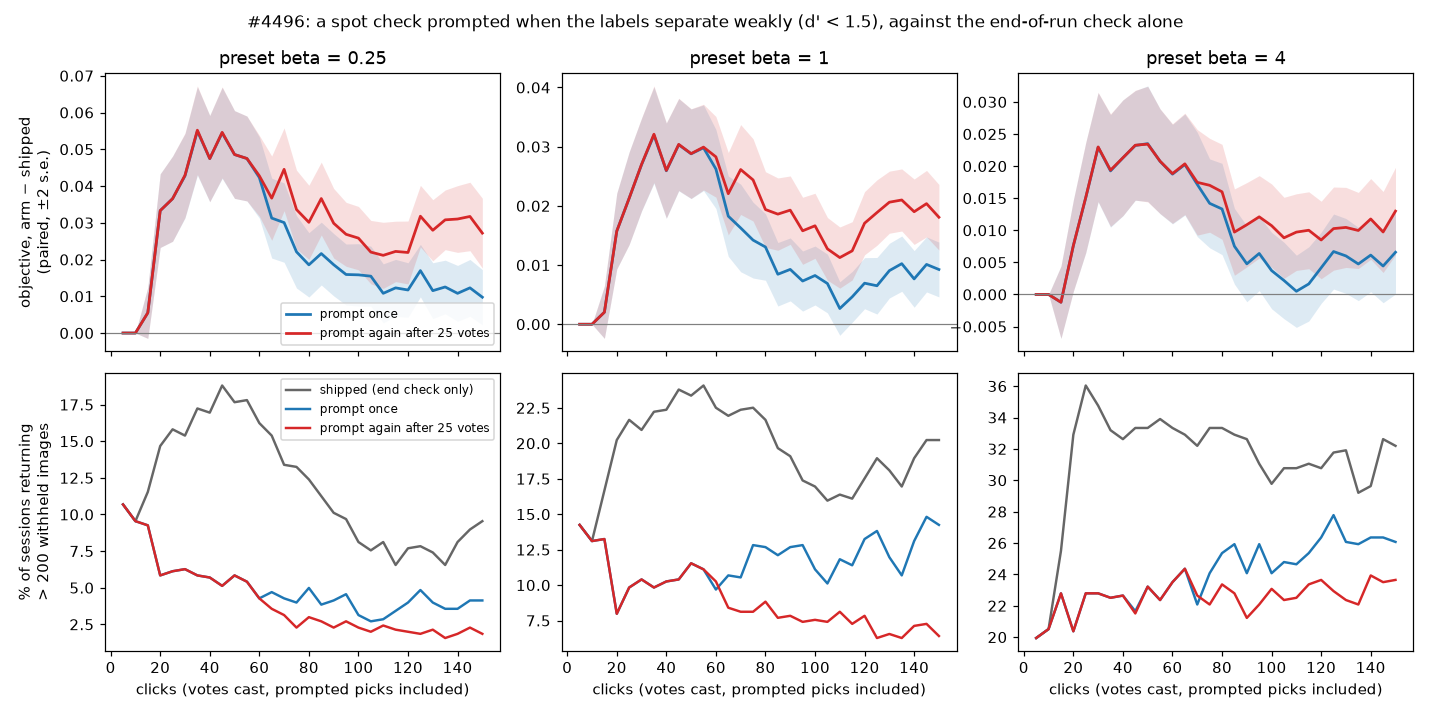
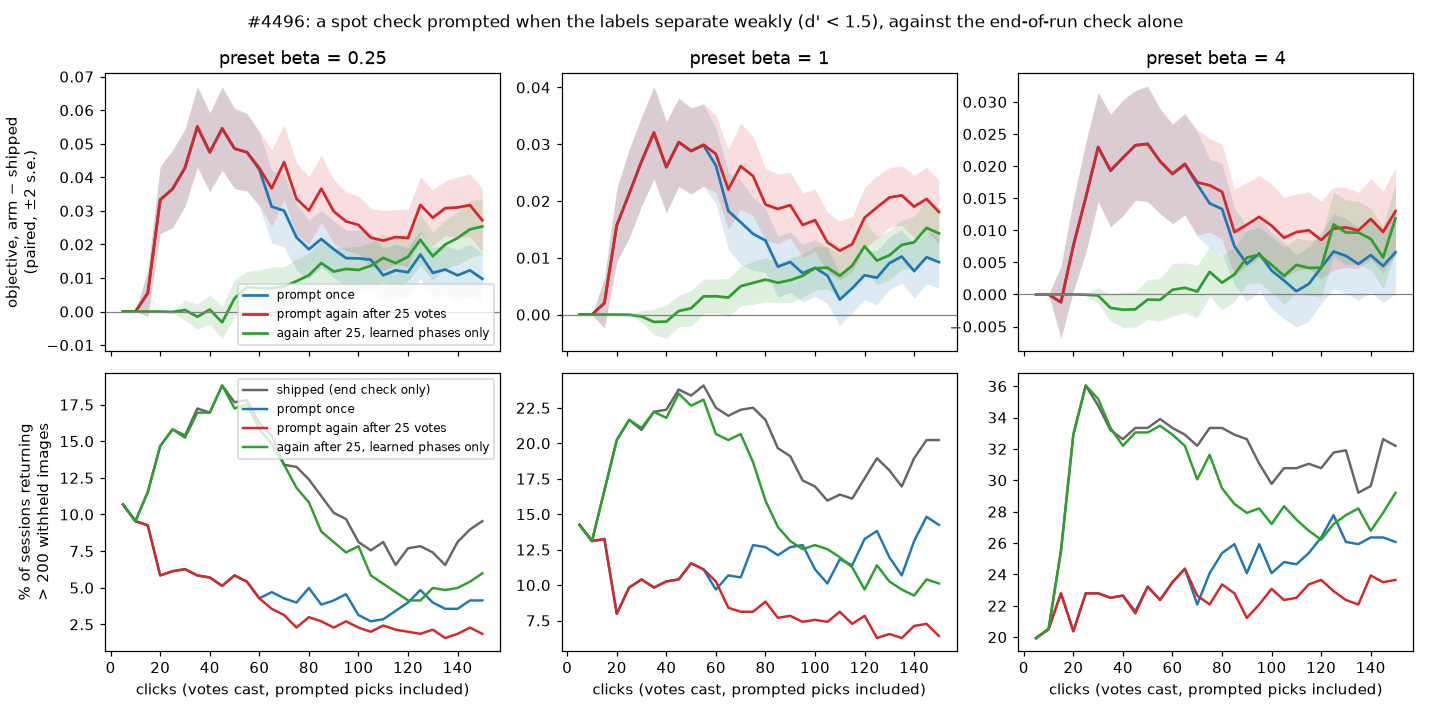
#4496: report - round 2, the check past Autopilot's opening as shipped
Past the opening only (weak_phase="learned", PR #4503), the check keeps
nearly all of round 1's gain at click 150 (+0.025/+0.014/+0.012 against
+0.027/+0.018/+0.013) and gives up everything before about click 50
(+0.02-0.05 in round 1). The follow-up is #4508. Figure re-rendered with
the third arm.

Claude-Session: https://claude.ai/code/session_01RYAFvig7c64CtSQuHpMxrk

diff --git a/docs/experiments/2026-10-05-weak-check-4496/REPORT.md b/docs/experiments/2026-10-05-weak-check-4496/REPORT.md
@@ -1,6 +1,6 @@
 # A spot check prompted when the labels separate weakly (#4496)
 
-**Status (2026-10-05):** priced end to end. Both arms win at every preset. Prompting again 25 votes after each prompted check is the better rule. How to ship it is the owner's call; see the end of this report.
+**Status (2026-10-05): shipped in PR #4503.** Both arms of round 1 win at every preset, and prompting again 25 votes after each prompted check is the better rule. The owner chose to ship it as a prompted check that Autopilot runs and the Train tab calls for. The app trains no detector during Autopilot's text-sort opening, so the shipped check runs only past it. Round 2 priced that arm: it keeps nearly all of the gain at click 150 and gives up the gain before about click 50. #4508 is the follow-up, a background retrain during the opening.
 
 ## The question
 
@@ -51,6 +51,26 @@ The objective is F-beta of the withheld half above Find's line, at the session's
 - **The ranking improves.** Final AP is +0.013 when prompting again and +0.004 to +0.005 when prompting once. AP at click 25 is +0.022. By the end, prompting again finds +1.4 to +1.6 more Goods.
 - **Before the first check pays off,** clicks 12 to 15 lose 0.001 to 0.003.
 
+## Round 2: only past Autopilot's opening, as shipped
+
+In round 1, 92% of the first prompts fell inside Autopilot's opening (`good`, `bad` and `more`, on the text or example sort). There the app trains no detector, so it has neither a separation to read nor a ranking to check. Round 2 re-ran "again after 25" with the prompt allowed only once the flow has left the opening (`weak_phase="learned"`), on the same 4,320 paired sessions. Runs are `2026-10-05-weakl-b025|b1|b4`; the green line in the figure.
+
+| preset | arm | 20 | 30 | 50 | 75 | 100 | 150 | after the check | final AP | Goods by the end |
+|---:|---|---:|---:|---:|---:|---:|---:|---:|---:|---:|
+| 1/4 | anywhere (round 1) | +0.033 | +0.043 | +0.049 | +0.034 | +0.026 | +0.027 | +0.010 | +0.013 | +1.4 |
+| 1/4 | **past the opening (shipped)** | 0.000 | 0.000 | +0.004 | +0.009 | +0.012 | +0.025 | +0.009 | +0.009 | +1.6 |
+| 1 | anywhere (round 1) | +0.016 | +0.027 | +0.029 | +0.024 | +0.017 | +0.018 | +0.010 | +0.012 | +1.6 |
+| 1 | **past the opening (shipped)** | 0.000 | 0.000 | +0.001 | +0.006 | +0.008 | +0.014 | +0.006 | +0.009 | +1.8 |
+| 4 | anywhere (round 1) | +0.008 | +0.023 | +0.023 | +0.017 | +0.011 | +0.013 | +0.005 | +0.013 | +1.6 |
+| 4 | **past the opening (shipped)** | 0.000 | 0.000 | −0.001 | +0.004 | +0.005 | +0.012 | +0.005 | +0.011 | +1.6 |
+
+- **Prompts come later and less often.** 47 to 48% of sessions are prompted, at a median first prompt of click 67, against 63% at click 22 in round 1. The median session first reaches a learned phase at click 45, and 83 sessions in 720 never do.
+- **What it keeps.** By click 150 the shipped check has nearly all of round 1's gain. It gets 70 to 90% of the final-AP gain and all of the extra Goods. It costs no Goods early: Goods by click 25 are unchanged.
+- **What it gives up.** Everything before about click 50, where most users who stop early would have gained +0.02 to +0.05. Recovering that needs a detector during the opening: #4508, a background retrain after each opening vote.
+- **Its click cost.** Prompted sessions spend a median of 40 picks on checks (23% of their first 150 clicks) at presets 1/4 and 1, and 60 (28%) at 4, in up to 3 checks.
+
+The harness was later changed for what shipped (PR #4503): a prompted check now must fit its opening bands in the votes left, and is cut off at the budget. Rounds 1 and 2 let a late prompt run up to about 20 votes past click 150. That touches only the "after the check" column and only sessions prompted after click 130.
+
 ## Costs
 
 - **Fewer Goods early.** Goods found by click 25 fall by 0.73 (11.0 → 10.3), because the check's picks are band-uniform, not Good-seeking. About 13 to 17% of them are Goods. They come back later: +1.4 to +1.6 Goods by the end when prompting again.
@@ -70,7 +90,7 @@ A session that never meets the trigger draws nothing extra from the random gener
 - **No bias:** their paired mean at click 150 is 0.000 to 0.001 ± 0.001, so the drift adds noise, not bias.
 - **Logged:** see `scripts/experiments/lessons/2026-10-04-cpu-vendor-drift-breaks-pairing.md`.
 
-## What it means, and the ship decision
+## What it means, and how it shipped
 
 For a weakly separated session, uniform picks within the line's bands are better training votes than the acquisition picks they replace. They teach the head the negatives inside and around the line, which acquisition never reaches. The gain lands where the user is (clicks 20 to 50) and stays.
 
@@ -79,13 +99,14 @@ The harness cannot tell how the picks are presented, so the same rule can ship i
 1. **A prompted check.** When `separation` < 1.5 (and again 25 votes after the last prompted check), the Train tab turns its Check button into a call to action, and Autopilot runs the check itself. This reuses the check modal and its ranges, but it interrupts the user.
 2. **Band-uniform acquisition.** When separation is weak, the next roughly 20 picks are drawn band-uniformly over the line's ranking, inside the ordinary voting flow, with no modal. The votes are the same; the user never sees a "check".
 
-Either needs `separation` in the balance payload. Nothing in the app reads it yet.
+Either needs `separation` in the balance payload. **The owner chose (1)**, with the check coming back 25 votes after the last one. PR #4503 built it past Autopilot's opening (round 2), and #4508 is the opening.
 
 ## Files
 
-- **Runs:** `/expscratch/sgreenberg/state-of-the-app/2026-10-04-weak-b025|b1|b4` (prompt once) and `2026-10-04-weakr-b025|b1|b4` (prompt again), against `2026-10-04-floor-b*`.
+- **Runs:** `/expscratch/sgreenberg/state-of-the-app/2026-10-04-weak-b025|b1|b4` (prompt once), `2026-10-04-weakr-b025|b1|b4` (prompt again) and `2026-10-05-weakl-b025|b1|b4` (again, past the opening only), against `2026-10-04-floor-b*`.
 - **Scripts** (`/expscratch/sgreenberg/check-weak/`):
   - `dprime.py`, `summarize.py` and `check_effect.py`: the offline trigger study.
   - `compare_weak.py`: the paired comparison.
   - `prompt_cost.py`: the clicks spent.
+  - `prompt_phase.py`: the Autopilot phase each prompt fired in.
   - `figure_weak.py`: the figure.
